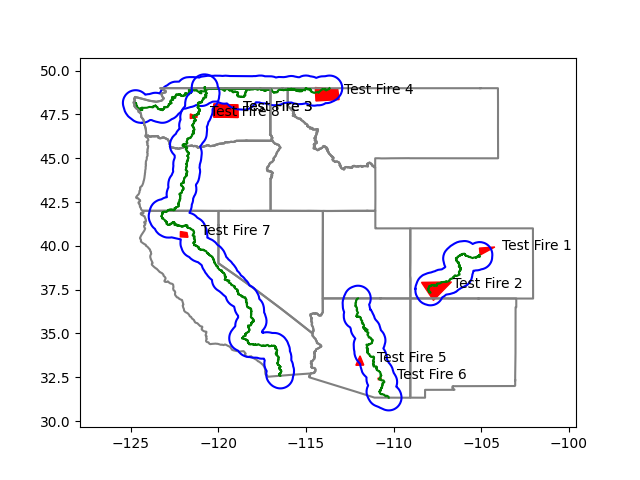
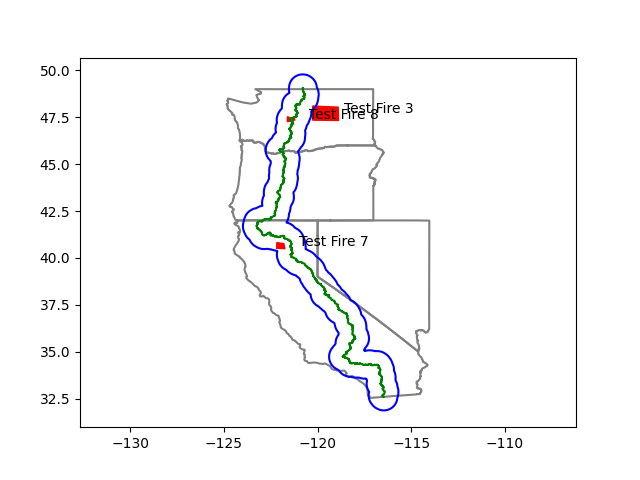
update plots, rm config

diff --git a/unit_tests/firetracker_test.py b/unit_tests/firetracker_test.py
@@ -49,43 +49,43 @@ class FireUnitTesting(unittest.TestCase):
         fire['attributes']['poly_IncidentName'] += f' {i + 1}'
         test_fires.append(fire)
     
-    # def test_mile_markers(self) -> None:
-    #     for trail in self.trails:
-    #         tracker = FireTracker(trail, copy.deepcopy(self.test_fires))
-    #         mile_markers = list(tracker.trail_mile_markers.values())
-    #         try:
-    #             self.assertTrue(mile_markers[0] < 1)
-    #             print(f'{trail} test_mile_markers PASSED: first mile marker expected size\n\n{mile_markers[0]} mi. to {mile_markers[len(mile_markers) - 1]} mi.')
-    #         except AssertionError:
-    #             print(f'{trail} test_mile_markers FAILED: first mile marker larger than expected size\n\n{mile_markers[0]} mi. to {mile_markers[len(mile_markers) - 1]} mi.')
+    def test_mile_markers(self) -> None:
+        for trail in self.trails:
+            tracker = FireTracker(trail, copy.deepcopy(self.test_fires))
+            mile_markers = list(tracker.trail_mile_markers.values())
+            try:
+                self.assertTrue(mile_markers[0] < 1)
+                print(f'{trail} test_mile_markers PASSED: first mile marker expected size\n\n{mile_markers[0]} mi. to {mile_markers[len(mile_markers) - 1]} mi.')
+            except AssertionError:
+                print(f'{trail} test_mile_markers FAILED: first mile marker larger than expected size\n\n{mile_markers[0]} mi. to {mile_markers[len(mile_markers) - 1]} mi.')
 
-    # def test_add_fires(self) -> None:
-    #     for trail in self.trails:
-    #         tracker = FireTracker(trail, copy.deepcopy(self.test_fires))
-    #         tracker.plot()
-    #         try:
-    #             self.assertTrue(len(tracker.close_fires) > 0)
-    #             print(f'{trail} test_add_fires PASSED: at least one test fire added to close fires.')
-    #         except AssertionError:
-    #             print(f'{trail} test_add_fires FAILED: close fires was empty.')
+    def test_add_fires(self) -> None:
+        for trail in self.trails:
+            tracker = FireTracker(trail, copy.deepcopy(self.test_fires))
+            tracker.plot()
+            try:
+                self.assertTrue(len(tracker.close_fires) > 0)
+                print(f'{trail} test_add_fires PASSED: at least one test fire added to close fires.')
+            except AssertionError:
+                print(f'{trail} test_add_fires FAILED: close fires was empty.')
     
-    # def test_fire_not_crossing_trail(self) -> None:
-    #     for trail in self.trails:
-    #         tracker = FireTracker(trail, copy.deepcopy(self.test_fires))
-    #         try:
-    #             self.assertTrue(len(tracker.close_fires) > len(tracker.fires_crossing_trail))
-    #             print(f'{trail} test_fire_not_crossing_trail PASSED: at least one fire close but not crossing trail.')
-    #         except AssertionError:
-    #             print(f'{trail} test_fire_not_crossing_trail FAILED: no fires not crossing trail.')
+    def test_fire_not_crossing_trail(self) -> None:
+        for trail in self.trails:
+            tracker = FireTracker(trail, copy.deepcopy(self.test_fires))
+            try:
+                self.assertTrue(len(tracker.close_fires) > len(tracker.fires_crossing_trail))
+                print(f'{trail} test_fire_not_crossing_trail PASSED: at least one fire close but not crossing trail.')
+            except AssertionError:
+                print(f'{trail} test_fire_not_crossing_trail FAILED: no fires not crossing trail.')
 
-    # def test_fire_crossing_trail(self) -> None:
-    #     for trail in self.trails:
-    #         tracker = FireTracker(trail, copy.deepcopy(self.test_fires))
-    #         try:
-    #             self.assertTrue(len(tracker.fires_crossing_trail) > 0)
-    #             print(f'{trail} test_fire_crossing_trail PASSED: at least one fire was crossing trail.')
-    #         except AssertionError:
-    #             print(f'{trail} test_fire_crossing_trail FAILED: no fires were crossing trail.')
+    def test_fire_crossing_trail(self) -> None:
+        for trail in self.trails:
+            tracker = FireTracker(trail, copy.deepcopy(self.test_fires))
+            try:
+                self.assertTrue(len(tracker.fires_crossing_trail) > 0)
+                print(f'{trail} test_fire_crossing_trail PASSED: at least one fire was crossing trail.')
+            except AssertionError:
+                print(f'{trail} test_fire_crossing_trail FAILED: no fires were crossing trail.')
     
     def test_sms(self) -> None:
         for trail in self.trails:

diff --git a/firetracker.py b/firetracker.py
@@ -47,7 +47,7 @@ class FireTracker():
         self.closest_points = self.get_closest_points(self.trail_linestring, self.close_fires)
     
     def plot(self) -> None:
-        # plt.clf()
+        plt.clf()
         for border in self.state_border_polygons:
             x, y = border['border'].exterior.xy
             plt.plot(x, y, color='grey')
